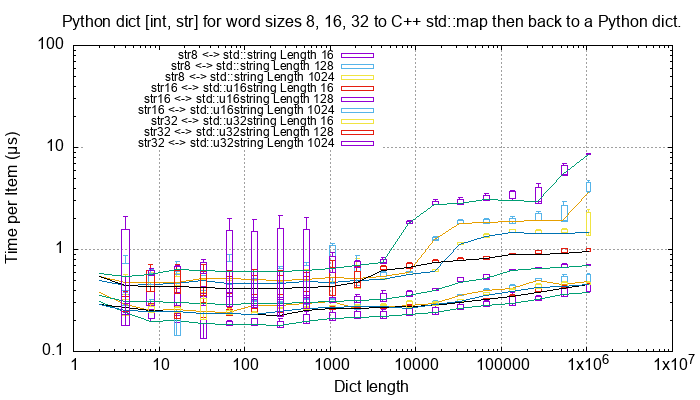
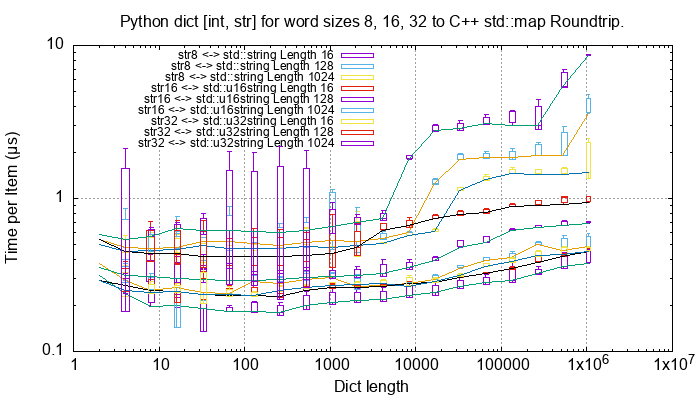
Performance documentation complete.

diff --git a/docs/sphinx/source/performance/performance_roundtrip.rst b/docs/sphinx/source/performance/performance_roundtrip.rst
@@ -8,8 +8,6 @@
 Round-trip Python to C++ and back to Python
 =================================================
 
-TODO: WIP whe have removed // 2 from the container size test.
-
 Python Objects
 ------------------------------------------------
 
@@ -35,6 +33,7 @@ The test code looks like this:
             timer = TimedResults()
             for _r in range(REPEAT):
                 time_start = time.perf_counter()
+                # See below for this function.
                 cPyCppContainers.new_bytes(original)
                 time_exec = time.perf_counter() - time_start
                 timer.add(time_exec)
@@ -48,7 +47,37 @@ The test code looks like this:
         for s, t in results:
             print(f'{s:<8d} {t} {1e9 * t.min() / s:12.1f}')
 
+And the C/C++ code that provides the function ``cPyCppContainers.new_bytes()``:
+
+.. code-block:: cpp
+
+    /**
+     * Take a Python \c bytes object, convert it to a \c std::vector<char> then convert that back to a Python \c bytes
+     * object.
+     */
+    static PyObject *
+    new_bytes(PyObject *Py_UNUSED(module), PyObject *arg) {
+        assert(! PyErr_Occurred());
+        PyObject *ret = NULL;
+        if (py_bytes_check(arg)) {
+            std::vector<char> vec = py_bytes_to_cpp_vector_char(arg);
+            ret = cpp_vector_char_to_py_bytes(vec);
+        } else {
+            PyErr_Format(
+                PyExc_ValueError,
+                "new_bytes() argument is not bytes but type %s", arg->ob_type->tp_name
+            );
+            ret = NULL;
+        }
+        assert(ret || PyErr_Occurred());
+        return ret;
+    }
+
 And the output looks like this:
+
+.. raw:: latex
+
+    \begin{landscape}
 
 .. code-block:: text
 
@@ -76,13 +105,17 @@ And the output looks like this:
     524288              5      0.000017699      0.000066024      0.000017893      0.000107562      0.000258436       14.602          0.0
     1048576             5      0.000034801      0.000130087      0.000035806      0.000207265      0.000500793       14.390          0.0
 
+.. raw:: latex
+
+    \end{landscape}
+
 When plotted in time the performance looks like this:
 
 .. image:: ../plots/images/roundtrip_bytes_time.png
     :height: 400px
     :align: center
 
-This is asymptotic to slightly over 10 GB/s round trip conversion time.
+This is asymptotic to around 5 GB/s round trip conversion time.
 
 The rate plot, that is the time value divided by the length of the bytes is:
 
@@ -183,7 +216,7 @@ Since the tuple conversion C++ code is essentially identical to the list convers
 It might be that the Python C API for tuples is significantly different than for list but this is considered unlikely.
 
 Python Lists
-------------------------------------------------
+------------
 
 
 Python List of ``bool``, ``int``, ``float`` and ``complex``
@@ -198,8 +231,8 @@ C++ ``std::vector``:
 
 These are typically *round trip* converted at:
 
-* 0.01 µs per object for booleans, say 100m objects a second.
-* 0.025 µs per object for ``int``, ``float`` and ``complex``, say 40m objects a second.
+* 0.02 µs per object for booleans, say 50m objects a second.
+* 0.04 µs per object for ``int``, ``float`` and ``complex``, say 25m objects a second.
 
 And the *round trip* performance of a Python list of ``bool``, ``int``, ``float`` and ``complex`` numbers via a
 C++ ``std::list``:
@@ -210,8 +243,10 @@ C++ ``std::list``:
 
 These are typically *round trip* converted at:
 
-* 0.1 µs per object for booleans, say 100m objects a second. This is about 10x the cost of using a ``std::vector``.
-
+* 0.08 µs per object for booleans, say 120m objects a second.
+  This is about 8x the cost of using a ``std::vector``.
+* 0.9 µs per object for other objects, say 10m objects a second.
+  This is about 2x the cost of using a ``std::vector``.
 
 Python List of ``bytes``
 ^^^^^^^^^^^^^^^^^^^^^^^^^^^^^^^^^^^^^^^^^^^^^^^^^^^^^^^^^^^^^^
@@ -283,15 +318,15 @@ Here is the *round trip* performance of a Python set of ``int``, ``float`` and `
 
 These are typically *round trip* converted at (for sets < 100,000 long):
 
-* 0.15 µs per object for ``int``, say 6m objects a second.
+* 0.1 µs per object for ``int``, say 10m objects a second.
 * 0.2 µs per object for ``float``, say 5m objects a second.
 * 0.3 µs per object for ``complex``, say 3m objects a second.
 
 The *round trip* time for a list takes 0.025 µs for ``int``, ``float`` and ``complex`` so a set takes:
 
-* 6x longer for an ``int``
-* 8x longer for a ``float``.
-* 12x longer for a ``complex`` number.
+* 2.5x longer for an ``int``
+* 5x longer for a ``float``.
+* 8x longer for a ``complex`` number.
 
 An explanation would be that the cost of hashing and insertion (and possible re-hashing the container) dominates the
 performance compared to the cost of object conversion.
@@ -312,9 +347,9 @@ Here is the time per object compared with a list:
 =============== =================================== =================================== =========== ===================
 Object          set (µs)                            list (µs)                           Ratio       Notes
 =============== =================================== =================================== =========== ===================
-bytes[16]       ~0.6                                0.1                                 x6
-bytes[128]      0.6 to 1.5                          0.1                                 x6 to x15
-bytes[1024]     1.0 to 5.0                          0.4 to 2                            x2.5
+bytes[16]       ~0.6                                0.1                                 6x
+bytes[128]      0.6 to 1.5                          0.1                                 6x to 15x
+bytes[1024]     1.0 to 5.0                          0.4 to 2                            2.5x
 =============== =================================== =================================== =========== ===================
 
 Again, the cost of hashing and insertion explains the difference.
@@ -332,9 +367,7 @@ bytes[1024]     1.0 to 5.0              0.2 to 1                    200 to 1000
 Python Set of ``str``
 ^^^^^^^^^^^^^^^^^^^^^^^^^^^^^^^^^^^^^^^^^^^^^^^^^^^^^^^^^^^^^^
 
-TODO:
-
-And a Python set of ``str`` for different lengths; 16, 128 and 1024 bytes long:
+And a Python set of ``str`` (8 bit) for different lengths; 16, 128 and 1024 bytes long:
 
 .. image:: ../plots/images/roundtrip_set_str_rate.png
     :height: 400px
@@ -347,9 +380,9 @@ Here is the time per object compared with a list:
 =============== =================================== =================================== =========== ===================
 Object          set (µs)                            list (µs)                           Ratio       Notes
 =============== =================================== =================================== =========== ===================
-str[16]         0.3                                 0.05 to 0.1                         x3 to x6
-str[128]        0.8                                 0.2 to 0.4                          x2 to x4
-str[1024]       1.0 to 5.0                          0.4 to 1.5                          x1 to x10
+str[16]         0.3                                 0.05 to 0.1                         3x to 6x
+str[128]        0.8                                 0.2 to 0.4                          2x to 44
+str[1024]       1.0 to 5.0                          0.4 to 1.5                          1x to 10x
 =============== =================================== =================================== =========== ===================
 
 Again, the cost of hashing and insertion explains the difference.
@@ -359,8 +392,8 @@ Given the size of each object this *round trip* time for sets can be summarised 
 =============== ======================= =========================== =========================== ===================
 Object          Time per object (µs)    Rate (million/s)            Rate (Mb/s)                 Notes
 =============== ======================= =========================== =========================== ===================
-bytes[16]       ~0.6                    1.7                         27
-bytes[128]      0.6 to 1.5              0.7 to 1.7                  90 to 220
+bytes[16]       0.3                     3                           48
+bytes[128]      0.8                     1.25                        160
 bytes[1024]     1.0 to 5.0              0.2 to 1                    200 to 1000
 =============== ======================= =========================== =========================== ===================
 
@@ -370,7 +403,9 @@ Python Dictionaries
 Python Dict of ``int``, ``float`` and ``complex``
 ^^^^^^^^^^^^^^^^^^^^^^^^^^^^^^^^^^^^^^^^^^^^^^^^^^^^^^^^^^^^^^
 
-Here is the round trip time for a Python dict to and from a C++ ``std::unordered_map<long, long>``.
+Here is the round trip time for a Python dict to and from a C++ ``std::unordered_map`` for integers, floats and complex
+numbers.
+The keys and values are the same type.
 This plots the *round trip* cost *per key/value pair* against dict size.
 
 .. image:: ../plots/images/roundtrip_dict_unordered_map_ints_floats_complex_rate.png
@@ -383,11 +418,12 @@ And for conversion via a C++ ``std::map``:
     :height: 400px
     :align: center
 
+The results for ``std::unordered_map`` and ``std::map`` are nearly identical.
+
 These are typically *round trip* converted at:
 
-TODO:
 
-* 0.2 µs per object for an int or float, say fm objects a second.
+* 0.2 µs per object for an int or float, say 5m objects a second.
 * 0.25 µs per object for a complex number, say 4m objects a second.
 
 This is identical to the values for the set but includes the conversion time for both key and value.
@@ -395,8 +431,6 @@ The hashing, insertion and potential re-hashing dominate the performance.
 
 Python Dict of ``bytes``
 ^^^^^^^^^^^^^^^^^^^^^^^^^^^^^^^^^^^^^^^^^^^^^^^^^^^^^^^^^^^^^^
-
-TODO:
 
 Here is the *round trip* time for a Python dict [bytes, bytes] to and from a C++
 ``std::unordered_map<std::vector<char>, std::vector<char>>`` for different lengths; 16, 128 and 1024 bytes long.
@@ -412,20 +446,23 @@ And via a C++ ``std::map``:
     :height: 400px
     :align: center
 
+The ``std::map`` takes a shade longer than the ``std::unordered_map``.
+
 This *round trip* time for both keys and values for dicts can be summarised as:
 
 =============== ======================= =========================== =========================== ===================
 Object          Time per object (µs)    Rate (million/s)            Rate (Mb/s)                 Notes
 =============== ======================= =========================== =========================== ===================
-bytes[16]       0.5                     2                           32
-bytes[128]      0.6 to 2                0.5 to 1.5                  64 to 256
-bytes[1024]     2 to 6                  0.15 to 0.5                 150 to 512
+bytes[16]       0.5                     2                           64
+bytes[128]      0.6 to 1                1 to 1.5                    256 to 425
+bytes[1024]     1 to 6                  0.15 to 1.0                 300 to 2000
 =============== ======================= =========================== =========================== ===================
 
 Python Dict of ``str``
 ^^^^^^^^^^^^^^^^^^^^^^^^^^^^^^^^^^^^^^^^^^^^^^^^^^^^^^^^^^^^^^
 
-Here is the *round trip* time for a Python dict [str, str] to and from a C++
+
+Here is the *round trip* time for a Python dict [str, str] (8 bit strings) to and from a C++
 ``std::unordered_map<std::string, std::string>`` for different lengths; 16, 128 and 1024 bytes long.
 The key and the value are the same length.
 
@@ -439,34 +476,43 @@ And via a C++ ``std::map``:
     :height: 400px
     :align: center
 
+The ``std::map`` is near identical to the ``std::unordered_map``.
+
 This *round trip* time for both keys and values for dicts can be summarised as:
 
 =============== ======================= =========================== =========================== ===================
 Object          Time per object (µs)    Rate (million/s)            Rate (Mb/s)                 Notes
 =============== ======================= =========================== =========================== ===================
-str[16]         0.4 to 1                1 to 2.5                    16 to 48
-str[128]        0.6 to 2                0.5 to 1.7                  64 to 220
-str[1024]       2 to 8                  0.125 to 0.5                125 to 500
+str[16]         0.3                     3                           96
+str[128]        0.6 to 1                1 to 1.7                    256 to 440
+str[1024]       1 to 10                 0.1 to 1                    200 to 2000
 =============== ======================= =========================== =========================== ===================
 
 Unicode Strings of Different Codepoint Sizes
 ^^^^^^^^^^^^^^^^^^^^^^^^^^^^^^^^^^^^^^^^^^^^^^^^^^
 
-TODO: roundtrip_list_vector_str16_String_length_2.dat etc.
-
-
-
 Here is a plot of round tripping a dict of ``[int, str]`` for unicode sizes of 8 bit, 16 bit and 32 bit to a
-C++ ``std::map`` and back:
+C++ ``std::unordered_map`` and back:
+
+
+.. image:: ../plots/images/roundtrip_dict_unordered_map_int_str_8_16_32_String_length_rate.png
+    :height: 400px
+    :align: center
+
+This is probably best shown in simplified form for 1024 length strings only:
+
+.. image:: ../plots/images/roundtrip_dict_unordered_map_int_str_8_16_32_String_length_1024_rate.png
+    :height: 400px
+    :align: center
+
+As expected, the 16 bit strings take around twice as long to convert as the 8 bit strings and the 32 bit strings take
+around four times as long to convert as the 8 bit strings.
+
+And similar plots for converting to a ``std::map``:
 
 .. image:: ../plots/images/roundtrip_dict_map_int_str_8_16_32_String_length_rate.png
     :height: 400px
     :align: center
-
-.. todo::
-
-    Commentary.
-
 
 And, simplified for 1024 length strings.
 
@@ -474,32 +520,7 @@ And, simplified for 1024 length strings.
     :height: 400px
     :align: center
 
-.. todo::
-
-    Commentary.
-
-And similar plots for converting to a ``std::unordered_map``:
-
-.. image:: ../plots/images/roundtrip_dict_map_int_str_8_16_32_String_length_rate.png
-    :height: 400px
-    :align: center
-
-.. todo::
-
-    Commentary.
-
-
-And, simplified for 1024 length strings.
-
-.. image:: ../plots/images/roundtrip_dict_map_int_str_8_16_32_String_length_1024_rate.png
-    :height: 400px
-    :align: center
-
-.. todo::
-
-    Commentary.
-
-TODO: add roundtrip_list_vector_str16_String_length_2.dat (8 files).
+The ``std::map`` is near identical to the ``std::unordered_map``.
 
 Summary
 ------------------

diff --git a/docs/sphinx/source/performance/performance_memory.rst b/docs/sphinx/source/performance/performance_memory.rst
@@ -11,7 +11,10 @@ Memory Use
 Single Bytes and Strings
 ------------------------
 
-
+Here is a typical test that takes a single 1GB bytes object, passes it into ``cPyCppContainers.new_bytes()`` which
+creates a new C++ ``std::vector<char>`` then converts that back into a new Python bytes object.
+This is repeated 10 times under the watchful eye of ``cPyMemTrace.Profile()``.
+The test is from ``tests/unit/test_with_pymemtrace.py``:
 
 .. code-block:: python
 
@@ -20,9 +23,9 @@ Single Bytes and Strings
 
     def test_new_bytes():
         with cPyMemTrace.Profile(4096 * 16):
-            original = b' ' * FUNDAMENTAL_TYPES_STR_BYTES_SIZE
+            original = b' ' * (2 << 30)
             results = []
-            for _r in range(FUNDAMENTAL_TYPES_STR_BYTES_REPEAT):
+            for _r in range(10):
                 cPyCppContainers.new_bytes(original)
             // This helps cPyMemTrace complete.
             gc.collect()
@@ -38,6 +41,8 @@ object.
     :height: 400px
     :align: center
 
+This demonstrates that there is no memory leak in converting these objects.
+
 Strings
 ^^^^^^^
 
@@ -47,14 +52,14 @@ Strings with 8 bit characters, this 1GB of 8 bit characters:
     :height: 400px
     :align: center
 
-Strings with 16 bit characters, this 0.5GB of 8 bit characters:
+Strings with 16 bit characters, this 0.5GB of 16 bit characters:
 
 .. image:: ../plots/images/pymemtrace_new_str16.png
     :height: 400px
     :align: center
 
 
-Strings with 32 bit characters, this 0.25GB of 8 bit characters:
+Strings with 32 bit characters, this 0.25GB of 32 bit characters:
 
 .. image:: ../plots/images/pymemtrace_new_str32.png
     :height: 400px
